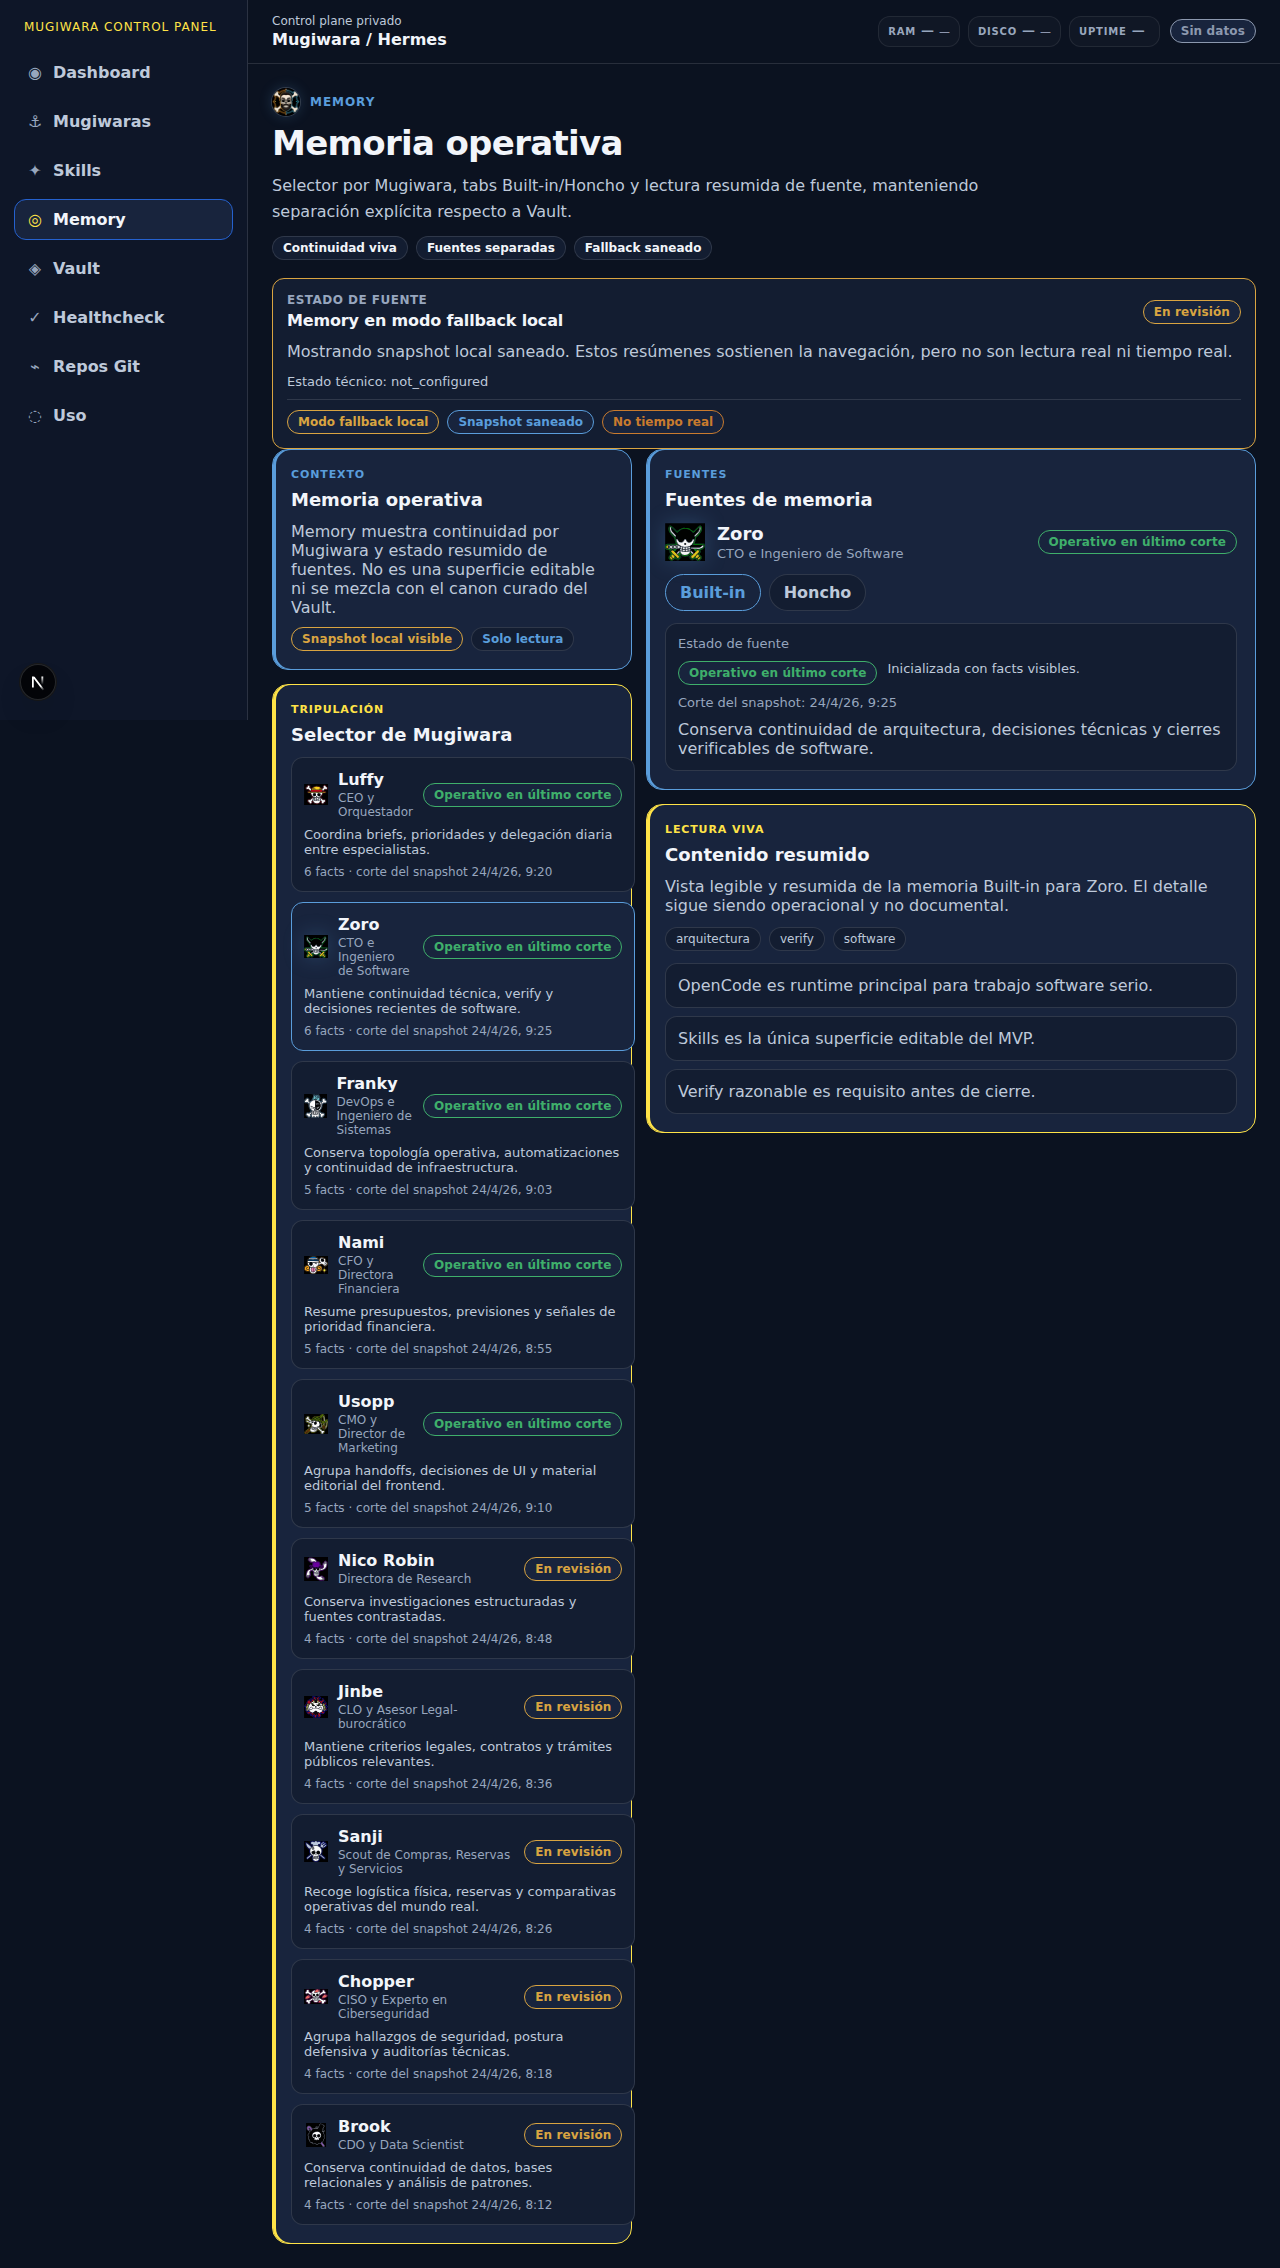
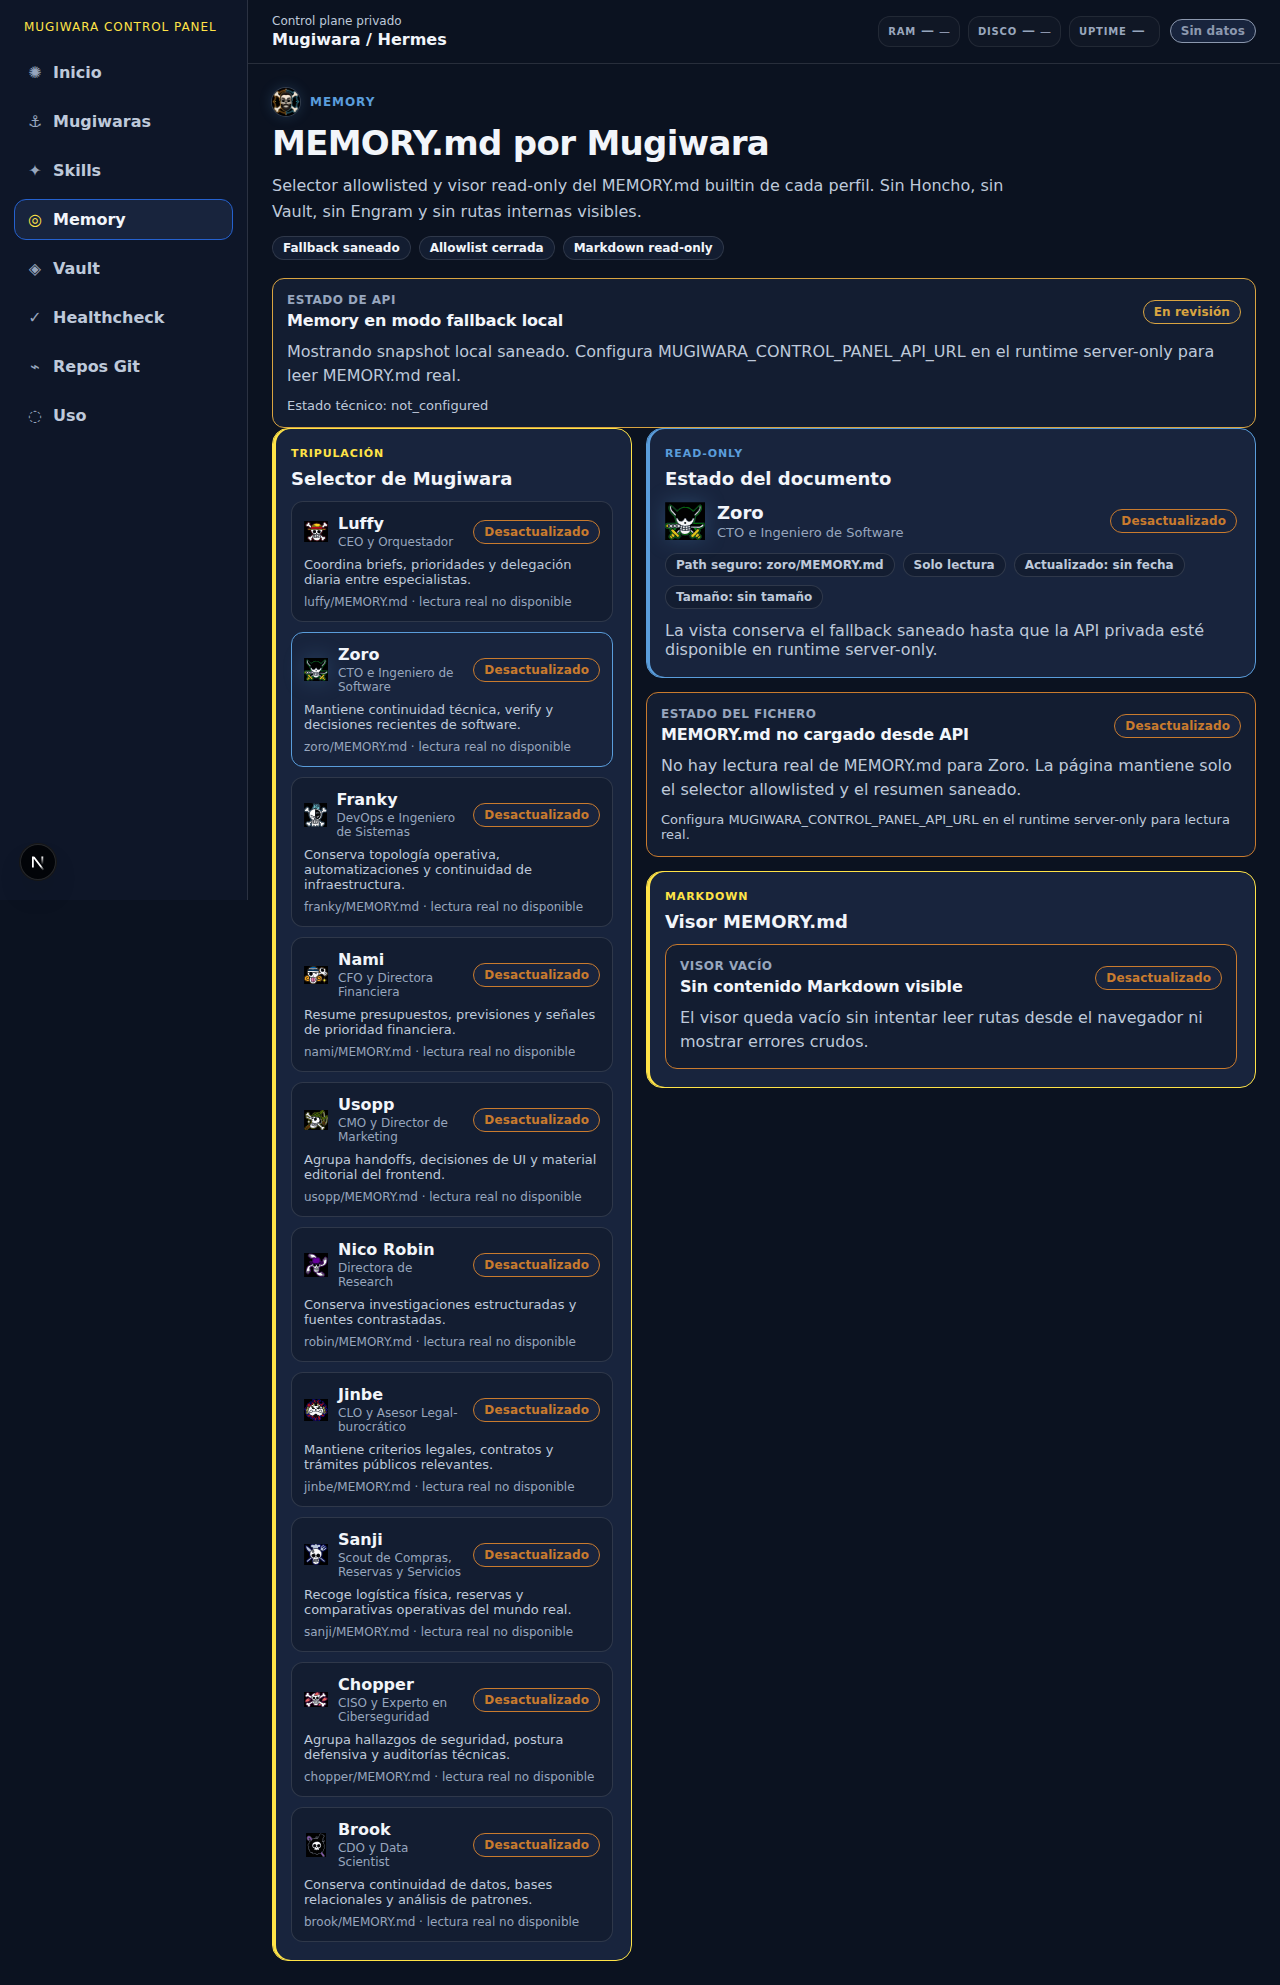
Refresh control panel screenshots and README
Mugiwara-Agent: usopp

diff --git a/README.md b/README.md
@@ -14,7 +14,7 @@ Aquí mandan dos reglas: claridad de puente de mando y prudencia de bodega cerra
 
 ## ✨ Qué aporta
 
-- **Dashboard operativo** con estado general, módulos y accesos rápidos.
+- **Inicio navegable** como portada privada del producto, sin duplicar métricas ni estados propietarios.
 - **Fichas Mugiwara** para ver roles, responsabilidades y señales saneadas de la tripulación.
 - **Catálogo de skills** con lectura, auditoría y edición controlada solo donde toca.
 - **Memory** como lectura separada de memoria operativa, sin mezclarla con canon documental.
@@ -40,9 +40,9 @@ La UI enseña estados y rutas de lectura. La seguridad vive detrás: backend, al
 
 Las capturas siguientes muestran la línea visual y la estructura real de páginas del panel en un corte concreto. No son mockups: enseñan el estado del producto con sus módulos, jerarquía y microcopy operativo, sin publicar secretos, credenciales ni configuración runtime.
 
-| Dashboard | Mugiwaras |
+| Inicio | Mugiwaras |
 |---|---|
-| ![Dashboard del Mugiwara Control Panel](public-assets/screenshots/control-panel-dashboard.png) | ![Página de Mugiwaras](public-assets/screenshots/control-panel-mugiwaras.png) |
+| ![Inicio navegable del Mugiwara Control Panel](public-assets/screenshots/control-panel-home.png) | ![Página de Mugiwaras](public-assets/screenshots/control-panel-mugiwaras.png) |
 
 | Skills | Memory |
 |---|---|
@@ -112,7 +112,7 @@ Ver [`docs/runtime-config.md`](docs/runtime-config.md).
 
 Resumen actual:
 
-- `/memory`, `/mugiwaras`, `/skills`, `/vault`, `/dashboard`, `/healthcheck`, `/usage` y `/git` dependen de fuentes server-only o BFF seguro.
+- `/`, `/memory`, `/mugiwaras`, `/skills`, `/vault`, `/healthcheck`, `/usage` y `/git` dependen de fuentes server-only o BFF seguro donde aplica; `/dashboard` redirige a `/`.
 - `/skills` expone al navegador solo endpoints BFF same-origin bajo `/api/control-panel/skills/**`; la URL real del backend no entra en el bundle cliente.
 - Las pantallas con fallback lo declaran como fallback: nada de telemetría mágica, nada de fingir tiempo real.
 
